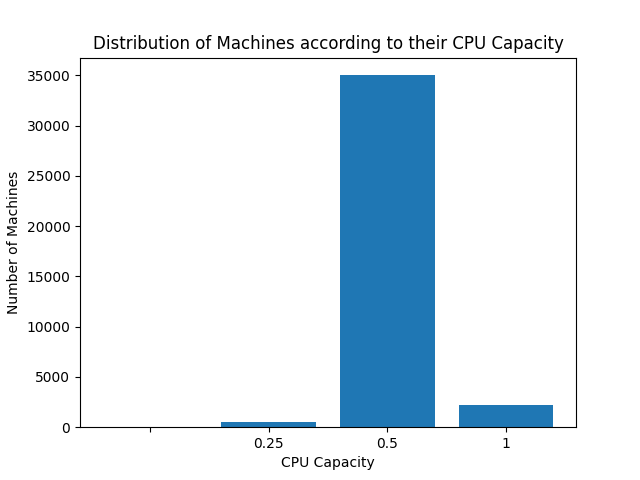
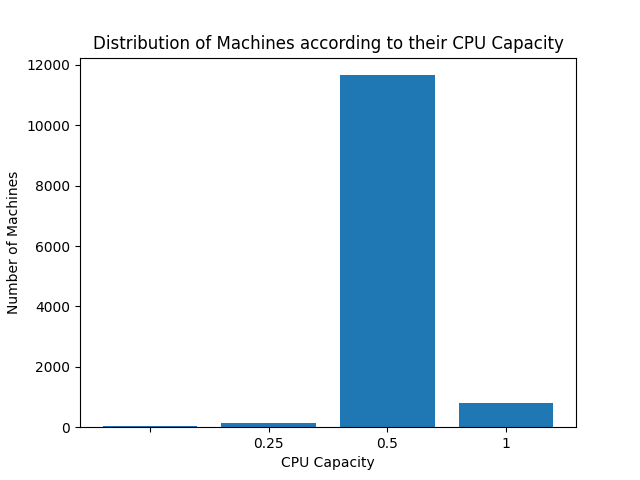
correction question1 (répartition des machines en fonction du cpu capacity) + correction README.md + ajout de la selection de l'exectution des qestions

diff --git a/src/questions.py b/src/questions.py
@@ -1,60 +1,93 @@
+import sys
 from src.utils import *
 
 # Has a machine always the same cpucapacity?
 # We do not consider machines that do not have a cpucapacity
-# If we want to consider them, we can remove the filter (line 49)
-def question0(data, c):
-    # find the index of cpucapacity
+def check(data, c):
+    print("\nChecking if a machine can have different CPU Capacity")
+    # Find the index of cpucapacity
     index = find_col(c, 'cpucapacity')
+    machine_index = find_col(c, 'machineID')
 
-    # map the data to (machineID, cpucapacity)
-    d = data.map(lambda x: (x[find_col(c, 'machineID')], x[index]))
+    # Map the data to (machineID, cpucapacity)
+    d = data.map(lambda x: (x[machine_index], x[index]))
 
-    # reduce by key and check if all values are the same
-    d = d.reduceByKey(lambda x, y: x if x == y else 'different')
+    # Reduce by key to collect unique cpucapacities per machine
+    d = d.groupByKey().mapValues(set)
 
-    # collect and print results
+    # Collect results
     d = d.collect()
-    diff = 0
-    for line in d:
-        if line[1] == 'different':
-            # print("Machine", line[0], "has different CPU Capacity")
-            diff+=1
-    if diff > 0:
-        print("There are", diff, "machines that have different CPU Capacity.")
+
+    diff_machines = {}
+    for machineID, cpucapacities in d:
+        if len(cpucapacities) > 1:
+            diff_machines[machineID] = list(cpucapacities)
+
+    if diff_machines:
+        print("List of the", len(diff_machines), "machines that have different CPU Capacities:")
+        for machineID, cpucapacities in diff_machines.items():
+            print(f"Machine ID {machineID} has CPU Capacities: {cpucapacities}")
     else:
-        print("All machines have different CPU Capacity.")
+        print("A machine always has the same CPU Capacity")
+    print()
+
 
 # What is the distribution of the machines according to their CPU capacity?
 def question1(data, c):
-    print("What is the distribution of the machines according to their CPU capacity?")
-    print("Fist we want to know if a machine can have different CPU Capacity")
+    print("Something to consider: We don't know if it is possible for a machine to have more than one CPU capacity.\n"
+          "So we decided \"if a machine has more than one capacity, the machine is added for each capacity it has.\"")
 
-    # check if a machine can have different CPU Capacity
-    question0(data, c)
+    if len(sys.argv) > 1 and "check" in sys.argv:
+        # check if a machine can have different CPU Capacity
+        check(data, c)
+    else:
+        print("\nWe made a script to check if a machine can have different CPU Capacity, you can run it by using the argument \"check\"\n"
+              "/!\\ It will take more time to compute and display the name with all the CPU Capacity of each machine /!\\\n")
 
-    print("\nNow we will display the distribution of the machines according to their CPU capacity\n")
 
-    # find the index of cpucapacity
-    index = find_col(c, 'cpucapacity')
+    nb_machines = 0
+    print("Computing the distinct number of machines")
+    # find the index of machineID
+    machineID = find_col(c, 'machineID')
 
-    # map the data to (cpucapacity, 1)
-    d = data.map(lambda x: (x[index], 1))
+    # map the data to (machineID, 1)
+    d = data.map(lambda x: (x[machineID], 1))
 
     # reduce the data by key
     d = d.reduceByKey(lambda x, y: x + y)
 
-    # sort the data by key
-    d = d.sortByKey()
+    # count the number of machines
+    nb_machines = d.count()
+    print("Number of machines: ", nb_machines)
+
+    print("Computing the distribution of the machines according to their CPU capacity\n")
+
+    # find the index of cpucapacity
+    cpucapacity = find_col(c, 'cpucapacity')
+
+    # pour chaque machine, on va créer un tuple (cpucapacity, 1) en sachant que on a plusieur ligne pour une machine
+    d = data.map(lambda x: (x[machineID], x[cpucapacity]))
+
+    # on va supprimer les doublons
+    d = d.distinct()
+
+    # on va compter le nombre de machine par cpucapacity
+    d = d.map(lambda x: (x[1], 1)).reduceByKey(lambda x, y: x + y)
 
     # print the data
-    print("CPU Capacity Distribution :\n")
-    d = d.collect()
+    print("CPU Capacity Distribution :")
+
+    # sort by the cpucapacity
+    d = d.sortByKey().collect()
     for line in d:
         if line[0] == '':
-            print(line[1], "rows have no CPU Capacity", "(", round(line[1] / data.count() * 100, 2), "%)")
+            print("   ", line[1], "row(s) have no CPU Capacity", "(" + str(round(line[1] / nb_machines * 100, 2)) + "%)")
         else:
             # print the data in %
-            print(line[1], "rows have CPU Capacity of", line[0], "(", round(line[1] / data.count() * 100, 2), "%)")
+            print("   ", line[1], "machine(s) can have a CPU Capacity of", line[0], "(" + str(round(line[1] / nb_machines * 100, 2)) + "%)")
+
+    print("\nNote : We think that a machine cannot have different CPU capacity and if the sum of the percentage is not\n"
+          "equal to 100%, it is because some machines do not have a CPU Capacity. You can see this yourself by summing\n"
+          "the number of machines for all the CPU capacity and comparing it to the total number of machines.\n")
 
     return d

diff --git a/src/main.py b/src/main.py
@@ -1,4 +1,3 @@
-import sys
 import time
 from pyspark import SparkContext
 import matplotlib.pyplot as plt
@@ -13,16 +12,16 @@ data = sc.textFile("./data/machine_events/*.csv")
 
 # split the data
 data = data.map(lambda x: x.split(','))
-print("Data Loaded", data.count(), "rows\n")
+print("Data Loaded", data.count(), "rows")
 
 # affiliate the col list below
 col = ['timestamp', 'machineID', 'eventtype', 'platformID', 'cpucapacity', 'memorycapacity']
 
 # if we execute the code with the argument "filtered", we will filter the data to remove the rows with missing values
-if len(sys.argv) > 1 and sys.argv[1] == "filtered":
+if len(sys.argv) > 1 and "filtered" in sys.argv:
     print("Filtering Data to remove rows with missing values (if you want to keep them, do not use the argument 'filtered')")
     data = data.filter(lambda x: all(c != '' for c in x))
-    print("Data Filtered", data.count(), "rows remaining\n")
+    print("Data Filtered", data.count(), "rows remaining")
 
 #####################
 #                   #
@@ -30,18 +29,54 @@ if len(sys.argv) > 1 and sys.argv[1] == "filtered":
 #                   #
 #####################
 
-start = time.time()
-res1 = question1(data, col)
-print("\nExecution Time :", round(time.time() - start, 2), "s\n")
+def q1():
+    print("_" * 100,"\nQuestion 1 :")
+    print("What is the distribution of the machines according to their CPU capacity?\n")
+    start = time.time()
+    res1 = question1(data, col)
+    print("\nExecution Time :", round(time.time() - start, 2), "s\n")
 
-# plot the data
-x = [x[0] for x in res1]
-y = [x[1] for x in res1]
-plt.bar(x, y)
-plt.xlabel('CPU Capacity')
-plt.ylabel('Number of Machines')
-if len(sys.argv) > 1 and sys.argv[1] == "filtered":
-    plt.title('Distribution of Machines according to their CPU Capacity (Filtered Data)')
+    # plot the data
+    x = [x[0] for x in res1]
+    y = [x[1] for x in res1]
+    plt.bar(x, y)
+    plt.xlabel('CPU Capacity')
+    plt.ylabel('Number of Machines')
+    if len(sys.argv) > 1 and sys.argv[1] == "filtered":
+        plt.title('Distribution of Machines according to their CPU Capacity (Filtered Data)')
+    else:
+        plt.title('Distribution of Machines according to their CPU Capacity')
+    plt.show()
+
+def q2():
+    print("_" * 100,"\nQuestion 2 :")
+
+def q3():
+    print("_" * 100,"\nQuestion 3 :")
+
+def q4():
+    print("_" * 100,"\nQuestion 4 :")
+
+def q5():
+    print("_" * 100,"\nQuestion 5 :")
+
+def runall():
+    q1()
+    q2()
+    q3()
+    q4()
+    q5()
+
+questions = {
+    "1": q1,
+    "2": q2,
+    "3": q3,
+    "4": q4,
+    "5": q5
+}
+
+if len(sys.argv) > 1 and [x for x in questions if x in sys.argv]:
+    for x in [x for x in questions if x in sys.argv]:
+        questions[x]()
 else:
-    plt.title('Distribution of Machines according to their CPU Capacity')
-plt.show()
+    runall()

diff --git a/README.md b/README.md
@@ -3,13 +3,24 @@
 
 ## How to run the project
 We assume that you have already installed Spark and that you have a working version of Python 3.10 or higher.
-to run the project, you need to run the following commands **in the root directory of the project**:
+to run all the questions of the project, you need to run the following commands **in the root directory of the project**:
 ```bash
-    python3 ./Qestions.py
+    python3 ./src/main.py
 ```
 If you want to run with a filter on the missing values, you can run the following command:
 ```bash
-    python3 ./Qestions.py filtered
+    python3 ./src/main.py filtered
+```
+If you want to run a specific question, you can run the following command:
+```bash
+    python3 ./src/main.py <questions_number>
+```
+where `<questions_number>` are the number of the questions you want to run (1, 2, etc. separated by a space).
+And you can obviously add the `filtered` argument and mix the arguments.
+
+Example:
+```bash
+    python3 ./src/main.py 1 2 filtered
 ```
 
 ## Description of the data
